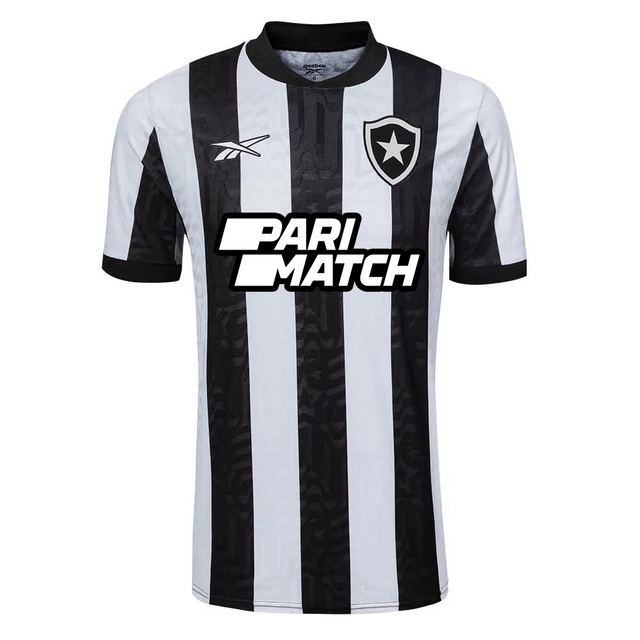
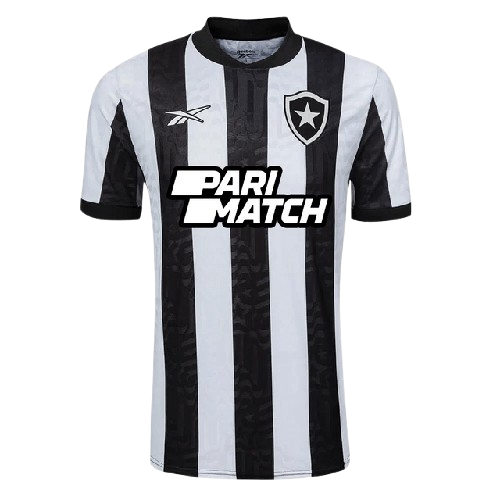
update project

diff --git a/index.html b/index.html
@@ -111,10 +111,10 @@
     </section>
     <section id="eventos" class="min-vh-100 d-flex align-items-center">
         <div class="container">
-            <div class="row">
+            <div class="row justify-content-center">
                 <h2 class="section-title title text-center pt-5 pb-3">Próximos eventos</h2>
-                <div class="col-md-4 mb-4">
-                    <div class="card" style="width: 18rem;">
+                <div class="col-12 col-md-4 mb-4">
+                    <div class="card" style="width: 100%;">
                         <img src="./src/assets/noticia3.jpg" class="card-img-top" alt="...">
                         <div class="card-body">
                         <p class="card-text">
@@ -126,8 +126,8 @@
                         </div>
                     </div>
                 </div>
-                <div class="col-md-4 mb-4 mb-lg-0">
-                    <div class="card" style="width: 18rem;">
+                <div class="col-12 col-md-4 mb-4 mb-lg-0">
+                    <div class="card" style="width: 100%;">
                         <img src="./src/assets/evento2.jpg" class="card-img-top" alt="...">
                         <div class="card-body">
                             <span class="section-title title"> <i class="bi bi-calendar-check"></i>
@@ -137,8 +137,8 @@
                         </div>
                     </div>
                 </div>
-                <div class="col-md-4">
-                    <div class="card" style="width: 18rem;">
+                <div class="col-12 col-md-4">
+                    <div class="card" style="width: 100%;">
                         <img src="./src/assets/evento3.jpg" class="card-img-top" alt="...">
                         <div class="card-body">
                             <span class="section-title title"> <i class="bi bi-calendar-check"></i>
@@ -153,26 +153,26 @@
 </section>
     <section id="noticias">
         <div class="container">
-            <div class="row">
+            <div class="row justify-content-center">
                 <h2 class=" section-title title text-center pt-4 pb-4">Últimas Notícias</h2>
-                <div class="col-md-4 mb-4">
-                    <div class="card" style="width: 18rem;">
+                <div class="col-12 col-md-4 mb-4">
+                    <div class="card" style="width: 100%">
                         <img src="./src/assets/noticia1.jpeg" class="card-img-top" alt="...">
                         <div class="card-body">
                           <p class="card-text">Além do atacante Luiz Henrique, Igor Jesus e o goleiro John estão na pré-lista enviada pelo técnico Dorival Júnior para a Data Fifa de outubro, quando a Seleção Brasileira enfrentará Chile e Peru, respectivamente.</p>
                         </div>
                       </div>
                 </div>
-                <div class="col-md-4 mb-4 ">
-                    <div class="card" style="width: 18rem;">
+                <div class="col-12 col-md-4 mb-4 ">
+                    <div class="card" style="width: 100%">
                         <img src="./src/assets/noticia2.jpg" class="card-img-top" alt="...">
                         <div class="card-body">
                           <p class="card-text">Menos de dois meses após cirurgia na tíbia esquerda, Júnior Santos já treina no campo com o grupo do Botafogo. O jogador retornou aos gramados nesta segunda-feira (23).</p>
                         </div>
                       </div>
                 </div>
-                <div class="col-md-4">
-                    <div class="card" style="width: 18rem;">
+                <div class="col-12 col-md-4">
+                    <div class="card" style="width: 100%">
                         <img src="./src/assets/noticia3.jpg" class="card-img-top" alt="...">
                         <div class="card-body">
                           <p class="card-text">O Botafogo bateu na trave contra o São Paulo no jogo de ida. A vantagem poderia ter sido grande no Estádio Nilton Santos. Mas não veio.</p>
@@ -303,7 +303,7 @@
                                     </p>
                                 </div>
                                 <div class="col-md-3">
-                                    <img src="./src/assets/produto2.jpg" alt="Camisa Treino azul e preta"
+                                    <img src="./src/assets/produto2.1.png" alt="Camisa Treino azul e preta"
                                     class="d-block w-100 rounded"
                                     >
                                     <h5 class="fw-bold mt-2">Camisa  Treino 24/25</h5>
@@ -328,34 +328,88 @@
         </div>
     </section>
     <section id="fale-conosco" class="mb-0 pb-0">
-    <div class="container">
-        <div class="row">
-            <h2 class="pt-3 mb-0">Fale conosco</h2>
-        </div>
-        <div class="row">
-            <h3>
-                <i class="bi bi-hand-thumbs-up-fill"></i>
-                Redes sociais
-            </h3>
-        </div>
-        <ul class="social-links d-flex">
-            <li class="fs-5 me-2"> <!-- Adicionando margem à direita nos itens -->
-                <a href="#">
-                    <i class="bi bi-facebook text-colored"></i>
-                </a>
-            </li>
-            <li class="fs-5 me-2">
-                <a href="#">
-                    <i class="bi bi-instagram text-colored"></i>
-                </a>
-            </li>
-            <li class="fs-5">
-                <a href="#">
-                    <i class="bi bi-whatsapp text-colored"></i>
-                </a>
-            </li>
-        </ul>
-    </div>          
+        <div class="container">
+            <div class="row">
+              <h2 class="section-title text-center pt-3">
+                Fale <span class="text-colored">conosco</span>
+              </h2>
+            </div>
+            <div class="row">
+              <div class="col-md-7 mb-5">
+                <form>
+                  <div class="mb-3">
+                    <label for="nome" class="form-label fw-bold text-colored"
+                      >Seu nome:</label
+                    >
+                    <input type="text" id="nome" class="form-control" name="nome" />
+                  </div>
+                  <div class="mb-3">
+                    <label for="email" class="form-label fw-bold text-colored"
+                      >Seu email:</label
+                    >
+                    <input
+                      type="email"
+                      id="email"
+                      class="form-control"
+                      autocomplete="off"
+                      name="email"
+                    />
+                  </div>
+                  <div class="mb-3">
+                    <label for="telefone" class="form-label fw-bold text-colored"
+                      >Seu telefone (opcional):</label
+                    >
+                    <input type="tel" id="telefone" class="form-control" name="telefone" />
+                  </div>
+                  <div class="mb-3">
+                    <label for="mensagem" class="form-label fw-bold text-colored"
+                      >Sua mensagem:</label
+                    >
+                    <textarea
+                      id="mensagem"
+                      class="form-control"
+                      name="mensagem"
+                    ></textarea>
+                  </div>
+                  <button type="submit" class="btn fw-bold bg-light">Enviar</button>
+                </form>
+              </div>
+              <div class="col-md-5">
+                <div class="row">
+                  <h3 class="section-title fs-4 text-colored">
+                    <i class="bi bi-hand-thumbs-up-fill"></i>
+                    Redes Sociais
+                  </h3>
+                  <ul class="social-links">
+                    <li class="fs-5">
+                      <a href="#">
+                        <i class="bi bi-facebook text-colored"></i>
+                      </a>
+                    </li>
+                    <li class="fs-5 ms-1 me-1">
+                      <a href="#">
+                        <i class="bi bi-instagram text-colored"></i>
+                      </a>
+                    </li>
+                    <li class="fs-5">
+                      <a href="#">
+                        <i class="bi bi-whatsapp text-colored"></i>
+                      </a>
+                    </li>
+                  </ul>
+                </div>
+                <div class="row mt-4">
+                  <h3 class="section-title fs-4 text-colored">
+                    <i class="bi bi-cursor-fill"></i>
+                    Endereço
+                  </h3>
+                  <p style="color: #fff;">
+                    Rio de Janeiro, Rio de Janeiro
+                  </p>
+                </div>
+              </div>
+            </div>
+          </div>         
 </section>
 
     <script src="https://cdn.jsdelivr.net/npm/bootstrap@5.3.3/dist/js/bootstrap.bundle.min.js"></script>
@@ -363,5 +417,6 @@
     <script src="./src/js/jquery-mask-min.js"></script>
     <script src="./src/js/jquery.validate.min.js"></script>
     <script src="./src/js/messages_pt_BR.min.js"></script>
+    <script src="./src/js/main.js"></script>
 </body>
 </html>

diff --git a/src/js/main.js b/src/js/main.js
@@ -1,0 +1,22 @@
+$(document).ready(function () {
+    $("#telefone").mask("(00) 00000-0000");
+    $('form').validate({
+        rules:{
+            nome:{
+                required: true,
+            },
+            email:{
+                required: true,
+                email: true
+            },
+            mensagem:{
+                required: true,
+            },
+        },
+        messages:{
+            nome: 'Por favor, insira o seu nome!',
+            email: 'Por favor, insira o seu email!',
+            mensagem: 'Por favor, insira uma mensagem!',
+        }
+    })
+});

diff --git a/src/style/main.css b/src/style/main.css
@@ -44,11 +44,15 @@ body {
   background-color: #181c14;
 }
 
-#fale-conosco h2, h3 {
+#fale-conosco {
   font-family: "Pacifico", cursive;
   color: #ffffff;
 }
 
 #eventos, #produtos {
   background-color: #dff2df;
+}
+
+.btn:hover{
+  color: #000000;
 }
